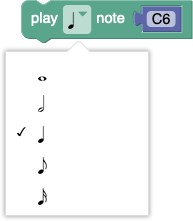
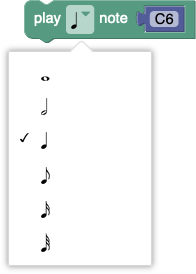
Enable 1/32nd durations in Blockly.  Update docs.

diff --git a/appengine/docs/index.html b/appengine/docs/index.html
@@ -50,7 +50,7 @@
 
     <h2 id="blockly">Blockly API</h2>
     <p>There are five options for the length of each note.  From top to bottom, they are whole notes, half notes, quarter notes
-    (the default), eighth notes, and sixteenth notes.  Thirty-second notes are not available in Blockly, only in JavaScript.</p>
+    (the default), eighth notes, sixteenth notes, and thirty-second notes.</p>
 
     <p><img src="note-lengths.png"></p>
 
@@ -69,8 +69,13 @@
 
     <p><img src="sharp-flat.png"></p>
 
+    <p>Chords (multiple notes) may be played by creating a list of pitches.
+    Consider assigning a chord to a variable if it is to be used many times.</p>
+
+    <p><img src="chord.png"></p>
+
     <p>A pause in the music is called a rest.  Rests come in the same lengths as notes.  From top to bottom,
-    they are whole rests, half rests, quarter rests (the default), eighth rests, and sixteenth rests.</p>
+    they are whole rests, half rests, quarter rests (the default), eighth rests, sixteenth, and thirty-second rests.</p>
 
     <p><img src="rest-lengths.png"></p>
 
@@ -101,8 +106,8 @@
     represented as a whole note, followed by the appropriate length of rests.
     Lengths not a multiple of 1/32 will be rounded down.  Pitch is a MIDI
     integer from 81 through 105, or one of the pre-defined convenience variables
-    A5 through A7.  Execution of this function call halts the current thread for
-    the duration of the note.</p>
+    A5 through A7.  Chords may be played by using an array of pitches (e.g. <tt>[G7, E7, C7]</tt>).
+    Execution of this function call halts the current thread for the duration of the note.</p>
 
     <p><strong><code>rest(<i>length</i>)</code></strong> - Pauses the music for
     the specified length.  Rests may have the same lengths as notes.  Execution

diff --git a/appengine/editor/blocks.js b/appengine/editor/blocks.js
@@ -45,6 +45,8 @@ Blockly.Blocks['music_note'] = {
         "width": 9, "height": 19, "alt": "eighth"}, "1/8"],
       [{"src": "notes/0.0625-low.png",
         "width": 9, "height": 19, "alt": "sixteenth"}, "1/16"],
+      [{"src": "notes/0.03125-low.png",
+        "width": 9, "height": 19, "alt": "thirtysecond"}, "1/32"],
     ];
     this.jsonInit({
       "message0": "play %1 note %2",
@@ -116,6 +118,8 @@ Blockly.Blocks['music_rest'] = {
               "width": 10, "height": 20, "alt": "eighth"}, "1/8"],
             [{"src": "rests/0.0625.png",
               "width": 10, "height": 20, "alt": "sixteenth"}, "1/16"],
+            [{"src": "rests/0.03125.png",
+              "width": 10, "height": 20, "alt": "thirtysecond"}, "1/32"],
           ]
         }
       ],

diff --git a/appengine/editor/script.js b/appengine/editor/script.js
@@ -1270,8 +1270,8 @@ Music.submitButtonClick = function(e) {
   };
   // Convert the transcript into a stream.
   var data = {
-    tempo: Music.transcriptTempo,
-    stream: Music.voicesToStream(Music.transcriptVoices)
+    'tempo': Math.round(Music.transcriptTempo),
+    'stream': Music.voicesToStream(Music.transcriptVoices),
   };
   xhr.send('data=' + JSON.stringify(data));
 };
